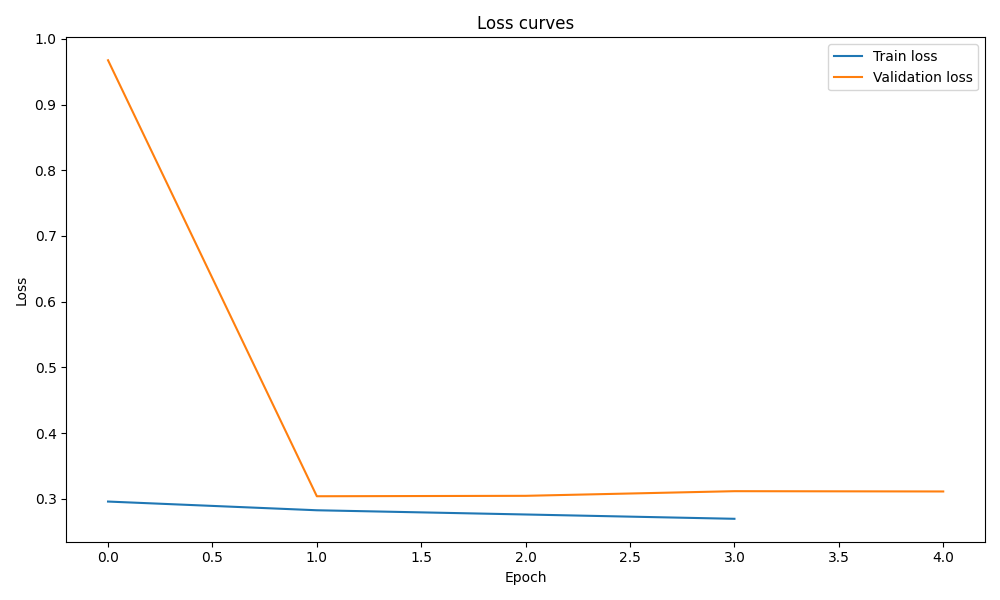
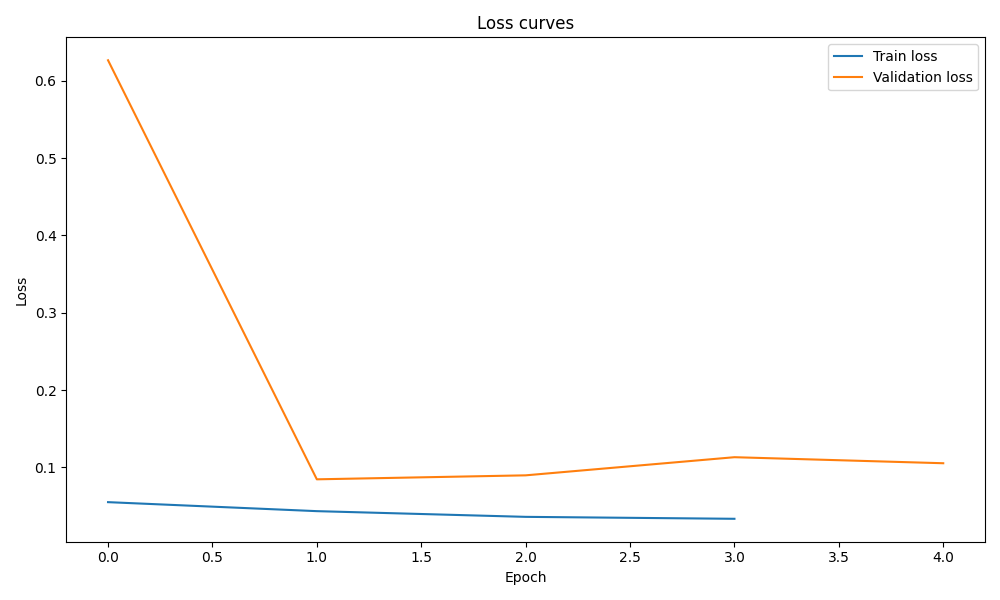
Fixed GANomaly and improved v2e conversion

diff --git a/src/models/GANomaly/ganomaly.py b/src/models/GANomaly/ganomaly.py
@@ -1,7 +1,7 @@
 import torch
 import torch.nn as nn
+import lightning.pytorch as pl
 import torch.nn.functional as F
-import pytorch_lightning as pl
 
 # --------------------------------------------------
 # GANomaly Lightning Module
@@ -21,8 +21,9 @@ class Encoder(nn.Module):
             nn.BatchNorm2d(128), nn.LeakyReLU(0.2, inplace=True),
             nn.Conv2d(128, 256, 4, 2, 1, bias=False),
             nn.BatchNorm2d(256), nn.LeakyReLU(0.2, inplace=True),
+            # For 256x256: 256->128->64->32 natural output
         )
-        self.fc = nn.Linear(256 * 8 * 8, latent_dim)
+        self.fc = nn.Linear(256 * 32 * 32, latent_dim)
 
     def forward(self, x):
         feat = self.conv(x)
@@ -33,45 +34,54 @@ class Encoder(nn.Module):
 class Decoder(nn.Module):
     def __init__(self, out_channels=3, latent_dim=100):
         super().__init__()
-        self.fc = nn.Linear(latent_dim, 256 * 8 * 8)
+        self.fc = nn.Linear(latent_dim, 256 * 32 * 32)
         self.deconv = nn.Sequential(
+            # 32x32 -> 64x64
             nn.ConvTranspose2d(256, 128, 4, 2, 1, bias=False),
             nn.BatchNorm2d(128), nn.ReLU(inplace=True),
+            # 64x64 -> 128x128
             nn.ConvTranspose2d(128, 64, 4, 2, 1, bias=False),
             nn.BatchNorm2d(64), nn.ReLU(inplace=True),
+            # 128x128 -> 256x256
             nn.ConvTranspose2d(64, out_channels, 4, 2, 1, bias=False),
             nn.Tanh(),
         )
 
     def forward(self, z):
         x = self.fc(z)
-        x = x.view(z.size(0), 256, 8, 8)
+        x = x.view(z.size(0), 256, 32, 32)
         x_hat = self.deconv(x)
         return x_hat
 
 class Discriminator(nn.Module):
     def __init__(self, in_channels=3):
         super().__init__()
-        self.layers = nn.ModuleList([
+        self.conv1 = nn.Sequential(
             nn.Conv2d(in_channels, 64, 4, 2, 1, bias=False),
             nn.BatchNorm2d(64),
-            nn.LeakyReLU(0.2, inplace=True),
+            nn.LeakyReLU(0.2, inplace=True)
+        )
+        self.conv2 = nn.Sequential(
             nn.Conv2d(64, 128, 4, 2, 1, bias=False),
             nn.BatchNorm2d(128),
-            nn.LeakyReLU(0.2, inplace=True),
+            nn.LeakyReLU(0.2, inplace=True)
+        )
+        self.conv3 = nn.Sequential(
             nn.Conv2d(128, 256, 4, 2, 1, bias=False),
             nn.BatchNorm2d(256),
-            nn.LeakyReLU(0.2, inplace=True),
-        ])
-        self.final = nn.Conv2d(256, 1, 4, 1, 0, bias=False)
+            nn.LeakyReLU(0.2, inplace=True)
+        )
+        # For 256x256: 256->128->64->32 natural output
+        self.final = nn.Conv2d(256, 1, 32, 1, 0, bias=False)
 
     def forward(self, x):
         feats = []
-        out = x
-        for layer in self.layers:
-            out = layer(out)
-            if isinstance(layer, nn.LeakyReLU):
-                feats.append(out)
+        out = self.conv1(x)
+        feats.append(out)
+        out = self.conv2(out)
+        feats.append(out)
+        out = self.conv3(out)
+        feats.append(out)
         logit = self.final(out).view(-1)
         return feats, logit
 
@@ -87,6 +97,9 @@ class GANomaly(pl.LightningModule):
                  w_enc=1.0):
         super().__init__()
         self.save_hyperparameters()
+        torch.set_float32_matmul_precision('medium')
+        # Enable manual optimization for multiple optimizers
+        self.automatic_optimization = False
         # Networks
         self.encoder = Encoder(in_channels, latent_dim)
         self.decoder = Decoder(in_channels, latent_dim)
@@ -116,44 +129,50 @@ class GANomaly(pl.LightningModule):
                                  betas=(self.hparams.b1, self.hparams.b2))
         return [opt_d, opt_g], []
 
-    def training_step(self, batch, batch_idx, optimizer_idx):
+    def training_step(self, batch, batch_idx):
         x, _ = batch
+        opt_d, opt_g = self.optimizers()
+        
         # Generator forward
         z = self.encoder(x)
         x_hat = self.decoder(z)
         z_hat = self.encoder2(x_hat)
+        
         # Discriminator updates
-        if optimizer_idx == 0:
-            feats_real, logit_real = self.discriminator(x)
-            feats_fake, logit_fake = self.discriminator(x_hat.detach())
-            valid = torch.ones_like(logit_real)
-            fake = torch.zeros_like(logit_fake)
-            loss_real = self.bce(logit_real, valid)
-            loss_fake = self.bce(logit_fake, fake)
-            loss_d = (loss_real + loss_fake) * 0.5
-            self.log('loss_d', loss_d, prog_bar=True)
-            return loss_d
+        opt_d.zero_grad()
+        feats_real, logit_real = self.discriminator(x)
+        feats_fake, logit_fake = self.discriminator(x_hat.detach())
+        valid = torch.ones_like(logit_real)
+        fake = torch.zeros_like(logit_fake)
+        loss_real = self.bce(logit_real, valid)
+        loss_fake = self.bce(logit_fake, fake)
+        loss_d = (loss_real + loss_fake) * 0.5
+        self.manual_backward(loss_d)
+        opt_d.step()
+        self.log('loss_d', loss_d, prog_bar=True)
+        
         # Generator updates
-        if optimizer_idx == 1:
-            # Adversarial loss (feature matching)
-            feats_real, _ = self.discriminator(x)
-            feats_fake, _ = self.discriminator(x_hat)
-            Ladv = 0
-            for fr, ff in zip(feats_real, feats_fake):
-                Ladv += F.mse_loss(ff, fr)
-            # Contextual loss
-            Lcon = F.l1_loss(x_hat, x)
-            # Encoder loss
-            Lenc = F.mse_loss(z_hat, z)
-            # Total generator loss
-            loss_g = self.hparams.w_adv * Ladv + \
-                     self.hparams.w_con * Lcon + \
-                     self.hparams.w_enc * Lenc
-            self.log('loss_g', loss_g, prog_bar=True)
-            self.log('Ladv', Ladv, prog_bar=False)
-            self.log('Lcon', Lcon, prog_bar=False)
-            self.log('Lenc', Lenc, prog_bar=False)
-            return loss_g
+        opt_g.zero_grad()
+        # Adversarial loss (feature matching)
+        feats_real, _ = self.discriminator(x)
+        feats_fake, _ = self.discriminator(x_hat)
+        Ladv = 0
+        for fr, ff in zip(feats_real, feats_fake):
+            Ladv += F.mse_loss(ff, fr)
+        # Contextual loss
+        Lcon = F.l1_loss(x_hat, x)
+        # Encoder loss
+        Lenc = F.mse_loss(z_hat, z)
+        # Total generator loss
+        loss_g = self.hparams.w_adv * Ladv + \
+                 self.hparams.w_con * Lcon + \
+                 self.hparams.w_enc * Lenc
+        self.manual_backward(loss_g)
+        opt_g.step()
+        self.log('loss_g', loss_g, prog_bar=True)
+        self.log('Ladv', Ladv, prog_bar=False)
+        self.log('Lcon', Lcon, prog_bar=False)
+        self.log('Lenc', Lenc, prog_bar=False)
 
     def validation_step(self, batch, batch_idx):
         x, _ = batch
@@ -162,6 +181,9 @@ class GANomaly(pl.LightningModule):
         z_hat = self.encoder2(x_hat)
         # anomaly score
         score = torch.mean(torch.abs(z - z_hat), dim=1)
+        # Log validation loss for callback compatibility
+        val_loss = score.mean()
+        self.log('val_loss', val_loss, on_step=False, on_epoch=True, prog_bar=True)
         return score
 
     def on_validation_epoch_end(self):
@@ -184,8 +206,8 @@ class GANomaly(pl.LightningModule):
         self.targets = []
 
     def on_test_epoch_end(self):
-        reconstruction_error = torch.tensor(self.reconstruction_error)
-        all_targets = torch.tensor(self.targets)
+        reconstruction_error = torch.cat(self.reconstruction_error)
+        all_targets = torch.cat(self.targets)
         
         self.reconstruction_error = reconstruction_error
         self.targets = all_targets

diff --git a/process_frames.py b/process_frames.py
@@ -31,16 +31,22 @@ def run_v2e_for_folder(v2e_script_path, input_images_dir, output_base_dir, fps):
     num_frames = len(frame_files)
     print(f"Znaleziono {num_frames} plików JPG.")
 
-    # --- Konfiguracja Parametrów V2E (Wersja sprzed Colab) ---
+    # --- Konfiguracja Parametrów V2E (Poprawiona dla nagrań wideo) ---
     overwrite = True
     output_video_filename = "dvs-video.avi"
     skip_video_output = False # Nadal potrzebujemy wideo do ekstrakcji
     disable_slomo = True
-    # Parametry czasowe powiązane z liczbą klatek
-    dvs_exposure_duration = 1.0 / num_frames if num_frames > 0 else 0.01 # Unikamy dzielenia przez zero
-    input_rate = num_frames # Używamy liczby klatek dla input_rate
-    avi_rate = num_frames # Używamy liczby klatek dla avi_rate
-    dvs_vid_full_scale = "1" # Zachowujemy z poprzedniej próby poprawy szarych klatek
+    
+    # Parametry czasowe poprawione dla nagrań wideo
+    dvs_exposure_duration = 0.005  # Stała ekspozycja 5ms (typowa dla DVS)
+    input_rate = fps  # Używamy rzeczywistego FPS
+    avi_rate = fps    # Używamy rzeczywistego FPS
+    
+    # Parametry DVS dla lepszej jakości
+    pos_thres = 0.2   # Próg dla pozytywnych zdarzeń
+    neg_thres = 0.2   # Próg dla negatywnych zdarzeń
+    sigma_thres = 0.03  # Próg szumu
+    dvs_vid_full_scale = "1"
 
     # --- Budowanie Polecenia V2E --- 
     command = [sys.executable, v2e_script_path]
@@ -71,8 +77,14 @@ def run_v2e_for_folder(v2e_script_path, input_images_dir, output_base_dir, fps):
     if disable_slomo:
         command.append("--disable_slomo")
     
-    # Nie ustawiamy jawnie parametrów modelu DVS (pos_thres, sigma_thres itp.)
-    # Pozwalamy v2e użyć swoich domyślnych wartości
+    # Parametry DVS dla lepszej jakości i usunięcia szarych klatek
+    command.extend(["--pos_thres", str(pos_thres)])
+    command.extend(["--neg_thres", str(neg_thres)])
+    command.extend(["--sigma_thres", str(sigma_thres)])
+    
+    # Dodatkowe parametry dla stabilności
+    command.extend(["--auto_timestamp_resolution", "True"])
+    command.extend(["--dvs_emulator_seed", "0"])  # Dla powtarzalności
 
     # --- Uruchomienie V2E --- 
     print(f"Uruchamianie polecenia V2E dla {input_images_dir}:\n    {' '.join(command)}")

diff --git a/src/data_classes/datamodule.py b/src/data_classes/datamodule.py
@@ -9,7 +9,7 @@ import numpy as np
 import psutil
 import os
 
-def calculate_dataloader_params(batch_size, img_size=(227, 227), image_channels=3, sequence_length=16, precision=32, ram_fraction=0.8):
+def calculate_dataloader_params(batch_size, img_size=(256, 256), image_channels=3, sequence_length=16, precision=32, ram_fraction=0.8):
     """
     Function calculates the number of workers and prefetch factor
     for DataLoader based on the available RAM.
@@ -80,7 +80,7 @@ class DataModule(LightningDataModule):
         # Parametry dla DataLoadera bez wielowątkowości
         self.params = calculate_dataloader_params(
             batch_size=self.batch_size,
-            img_size=(227, 227),
+            img_size=(256, 256),
             image_channels=1,
             sequence_length=self.sequence_length,
             precision=32,
@@ -96,7 +96,7 @@ class DataModule(LightningDataModule):
             self.train_dataset = UnsupervisedDataset(
                 self.path_to_data, 
                 'train', 
-                resize_target=(227, 227), 
+                resize_target=(256, 256), 
                 crop_type=self.crop_type,
                 dataset_name=self.dataset,
                 ego_involved=self.ego_involved,
@@ -105,7 +105,7 @@ class DataModule(LightningDataModule):
             self.val_dataset = UnsupervisedDataset(
                 self.path_to_data, 
                 'val', 
-                resize_target=(227, 227), 
+                resize_target=(256, 256), 
                 crop_type=self.crop_type,
                 dataset_name=self.dataset,
                 ego_involved=self.ego_involved,
@@ -114,7 +114,7 @@ class DataModule(LightningDataModule):
             self.test_dataset =  UnsupervisedDataset(
                 self.path_to_data, 
                 'val', 
-                resize_target=(227, 227), 
+                resize_target=(256, 256), 
                 crop_type=self.crop_type,
                 dataset_name=self.dataset,
                 ego_involved=self.ego_involved,

diff --git a/src/models/model_factory.py b/src/models/model_factory.py
@@ -5,6 +5,7 @@ from .ResNet.ResNet import ResNet
 from .ResNetLSTM.ResNetLSTM import ResNetLSTM
 from .LargerConvAE.LargerConvAE import LargerConvAE
 from .FineGrained.fine_grained import FineGrainedModel
+from .GANomaly.ganomaly import GANomaly
 
 def get_model(model_name: str, learning_rate: float, class_weights: list[float], weight_decay: float, input_channels: int = 1, num_classes: int = 6) -> tuple[nn.Module, bool, bool]:
     if model_name == 'ConvAE':
@@ -28,6 +29,11 @@ def get_model(model_name: str, learning_rate: float, class_weights: list[float],
             class_weights=class_weights,
             weight_decay=weight_decay
         ), False, False
+    elif model_name == 'GANomaly':
+        return GANomaly(
+            in_channels=input_channels,
+            lr=learning_rate
+        ), True, False
     else:
         raise ValueError(f"Model {model_name} not found")
 

diff --git a/src/data_classes/supervised_dataset.py b/src/data_classes/supervised_dataset.py
@@ -10,7 +10,7 @@ class SupervisedDataset(Dataset):
     def __init__(self, 
                  path_to_data: str, 
                  which_set: str, 
-                 resize_target: tuple = (227, 227), 
+                 resize_target: tuple = (256, 256), 
                  target_class: str | int = 'all', 
                  crop_type: str = None, 
                  dataset_name: str = 'DoTA', 

diff --git a/src/data_classes/unsupervised_dataset.py b/src/data_classes/unsupervised_dataset.py
@@ -12,7 +12,7 @@ class UnsupervisedDataset(Dataset):
     def __init__(self, 
                  path_to_data: str, 
                  which_set: str, 
-                 resize_target: tuple = (224, 224), 
+                 resize_target: tuple = (256, 256), 
                  crop_type: str = None, 
                  color_space: str = 'gray', 
                  dataset_name: str = 'DoTA', 
